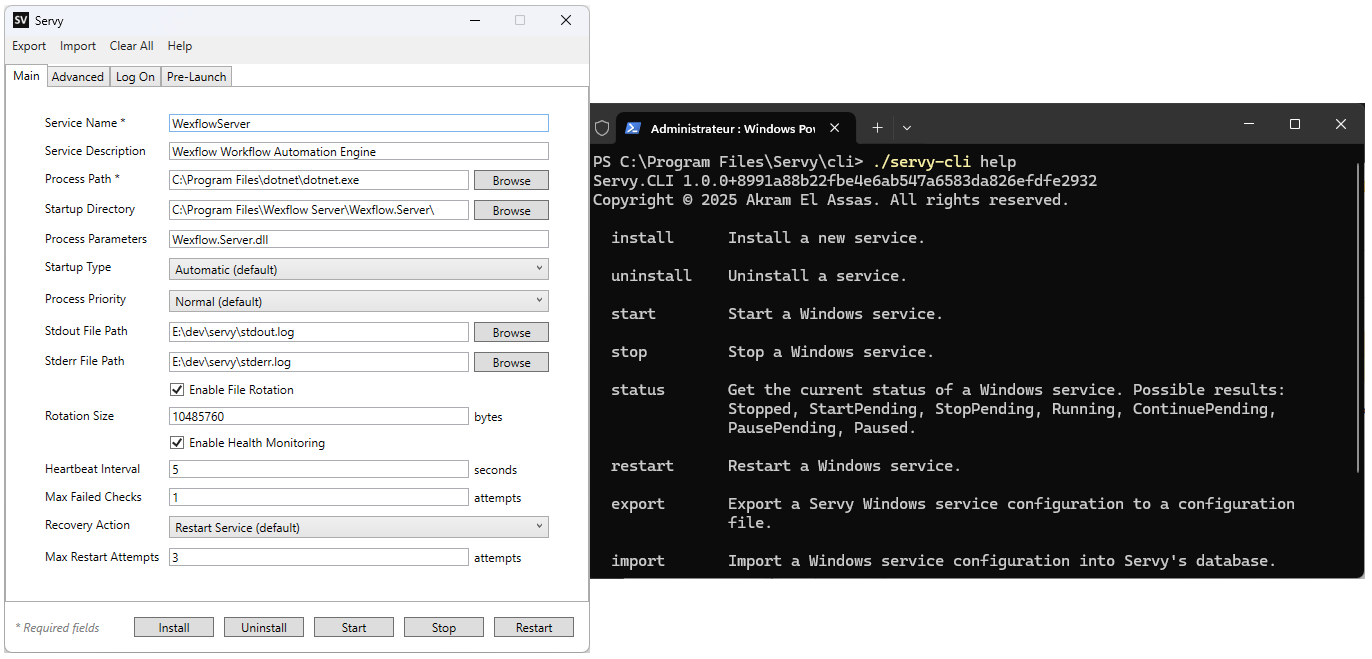
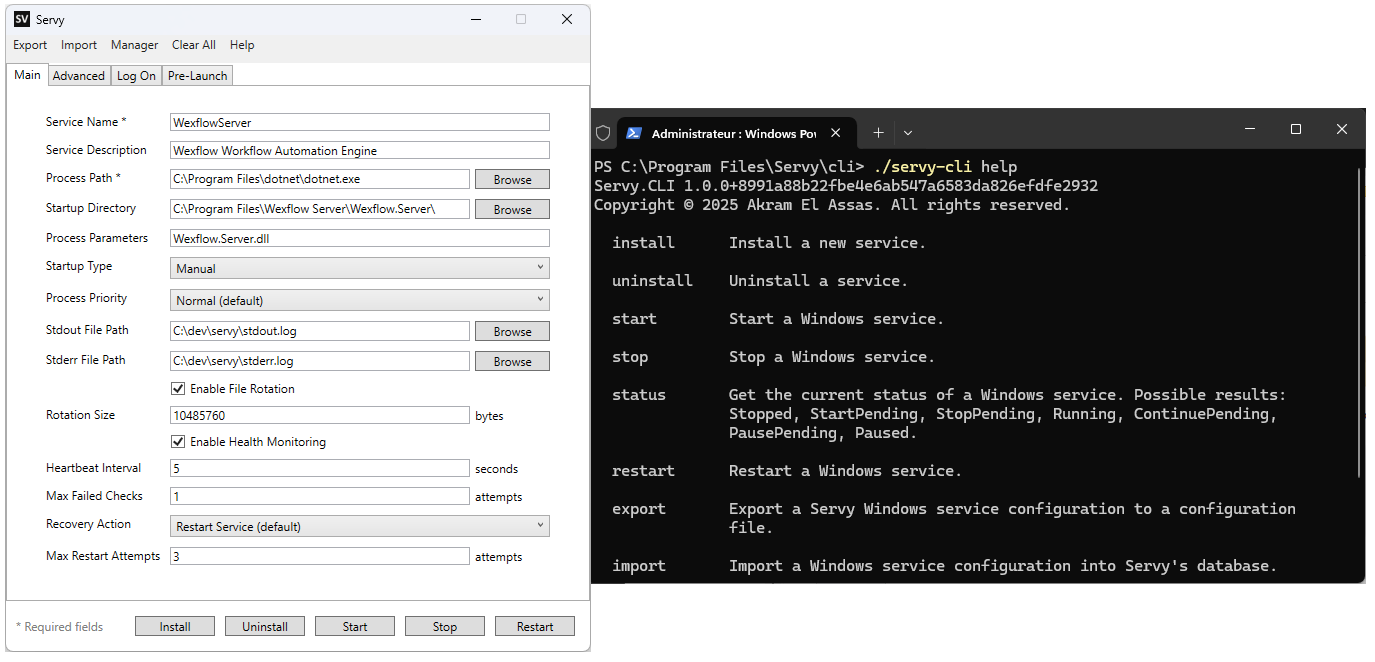
feat: update index.html

diff --git a/index.html b/index.html
@@ -72,8 +72,8 @@
       <h2>What is Servy?</h2>
       <p>
         Servy lets you run any app as a Windows service with full control over working directory, startup type, process
-        priority, logging, health checks, environment variables, dependencies, pre-launch scripts and parameters. A
-        fully managed alternative to NSSM.
+        priority, logging, health checks, environment variables, dependencies, pre-launch scripts and parameters. A free
+        and open-source alternative to FireDaemon Pro and NSSM.
       </p>
       <p>Servy offers both a GUI and a Command-Line Interface (CLI), enabling you to create, configure, and manage
         Windows services interactively or automate these tasks in scripts and CI/CD pipelines.</p>
@@ -106,6 +106,7 @@
       <h2>Features</h2>
       <ul>
         <li>Clean, simple UI</li>
+        <li>Quickly monitor and manage all Servy services with Servy Manager</li>
         <li>CLI for full scripting and automated deployments</li>
         <li>Run any executable as a Windows service</li>
         <li>Set service name, description, startup type, priority, working directory, environment variables,
@@ -130,6 +131,10 @@
         <li><a href="https://github.com/aelassas/servy/wiki/Installation-Guide" target="_blank"
             rel="noopener noreferrer">Installation Guide</a></li>
         <li><a href="https://github.com/aelassas/servy/wiki/Usage" target="_blank" rel="noopener noreferrer">Usage</a>
+        </li>
+        <li>
+          <a href="https://github.com/aelassas/servy/wiki/Servy-Manager" target="_blank"
+            rel="noopener noreferrer">Manager</a>
         </li>
         <li><a href="https://github.com/aelassas/servy/wiki/Servy-CLI" target="_blank" rel="noopener noreferrer">CLI</a>
         </li>
